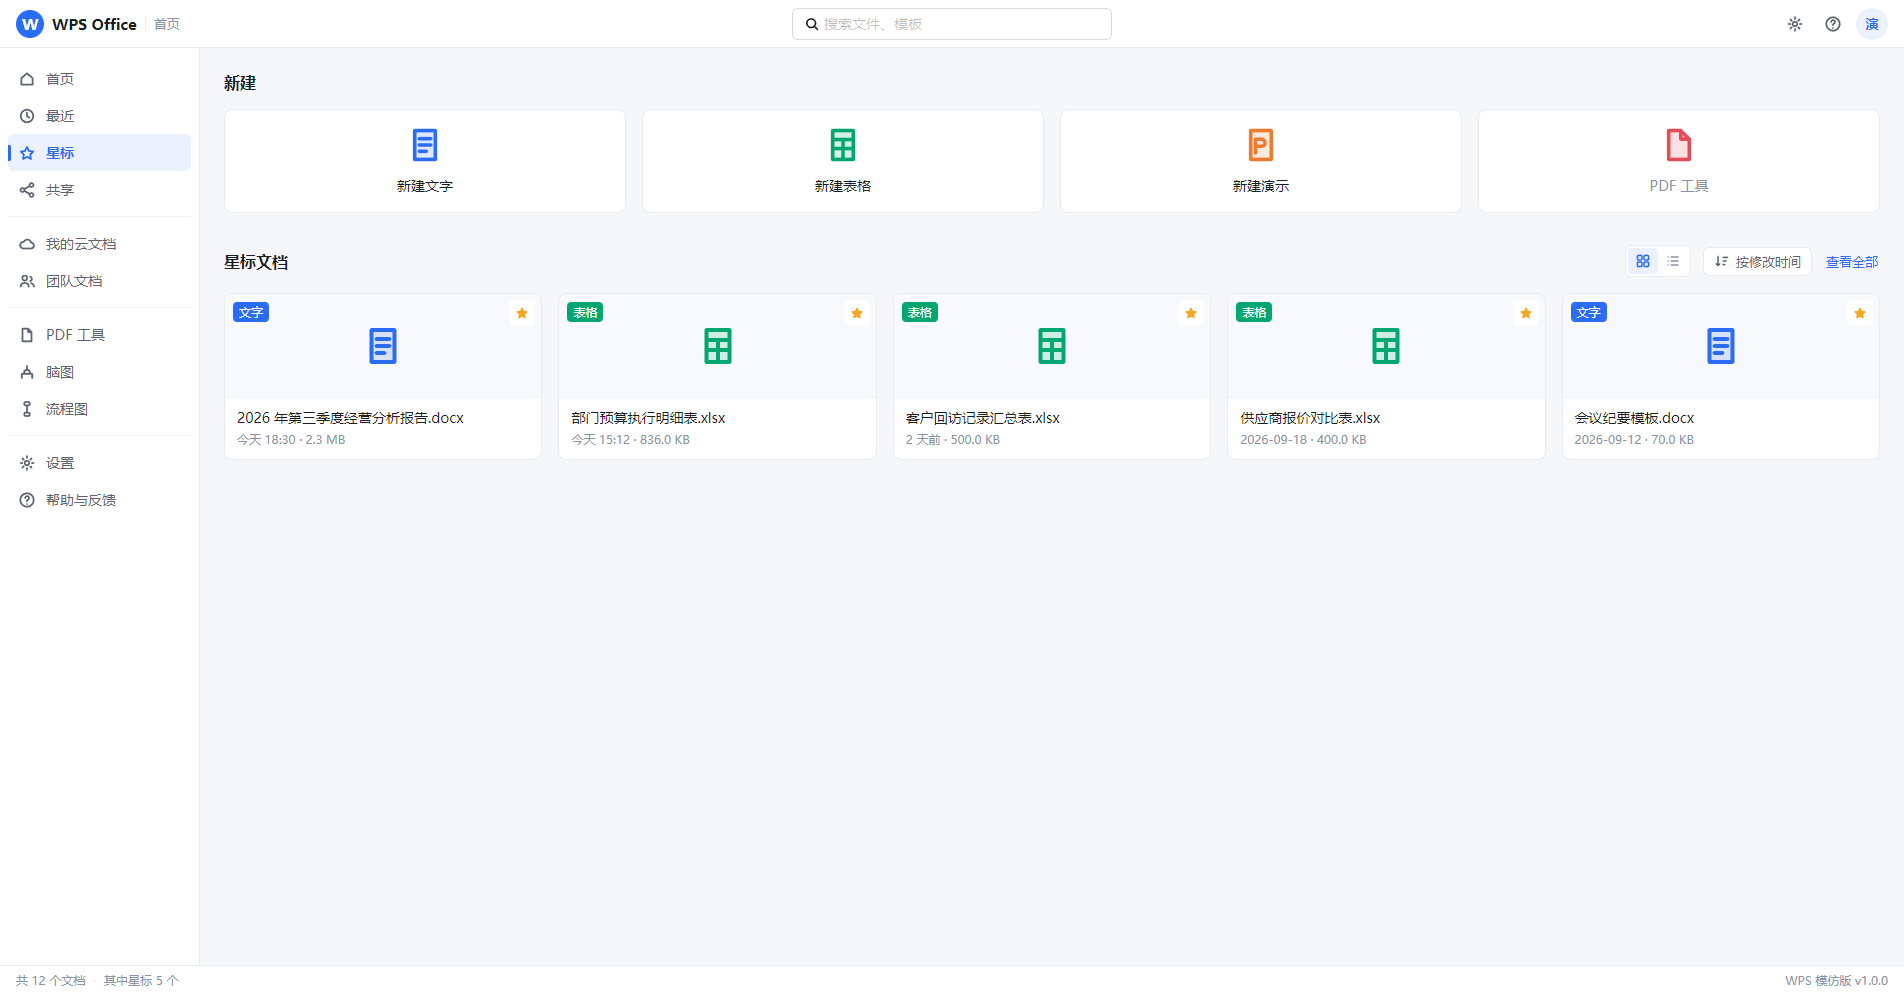
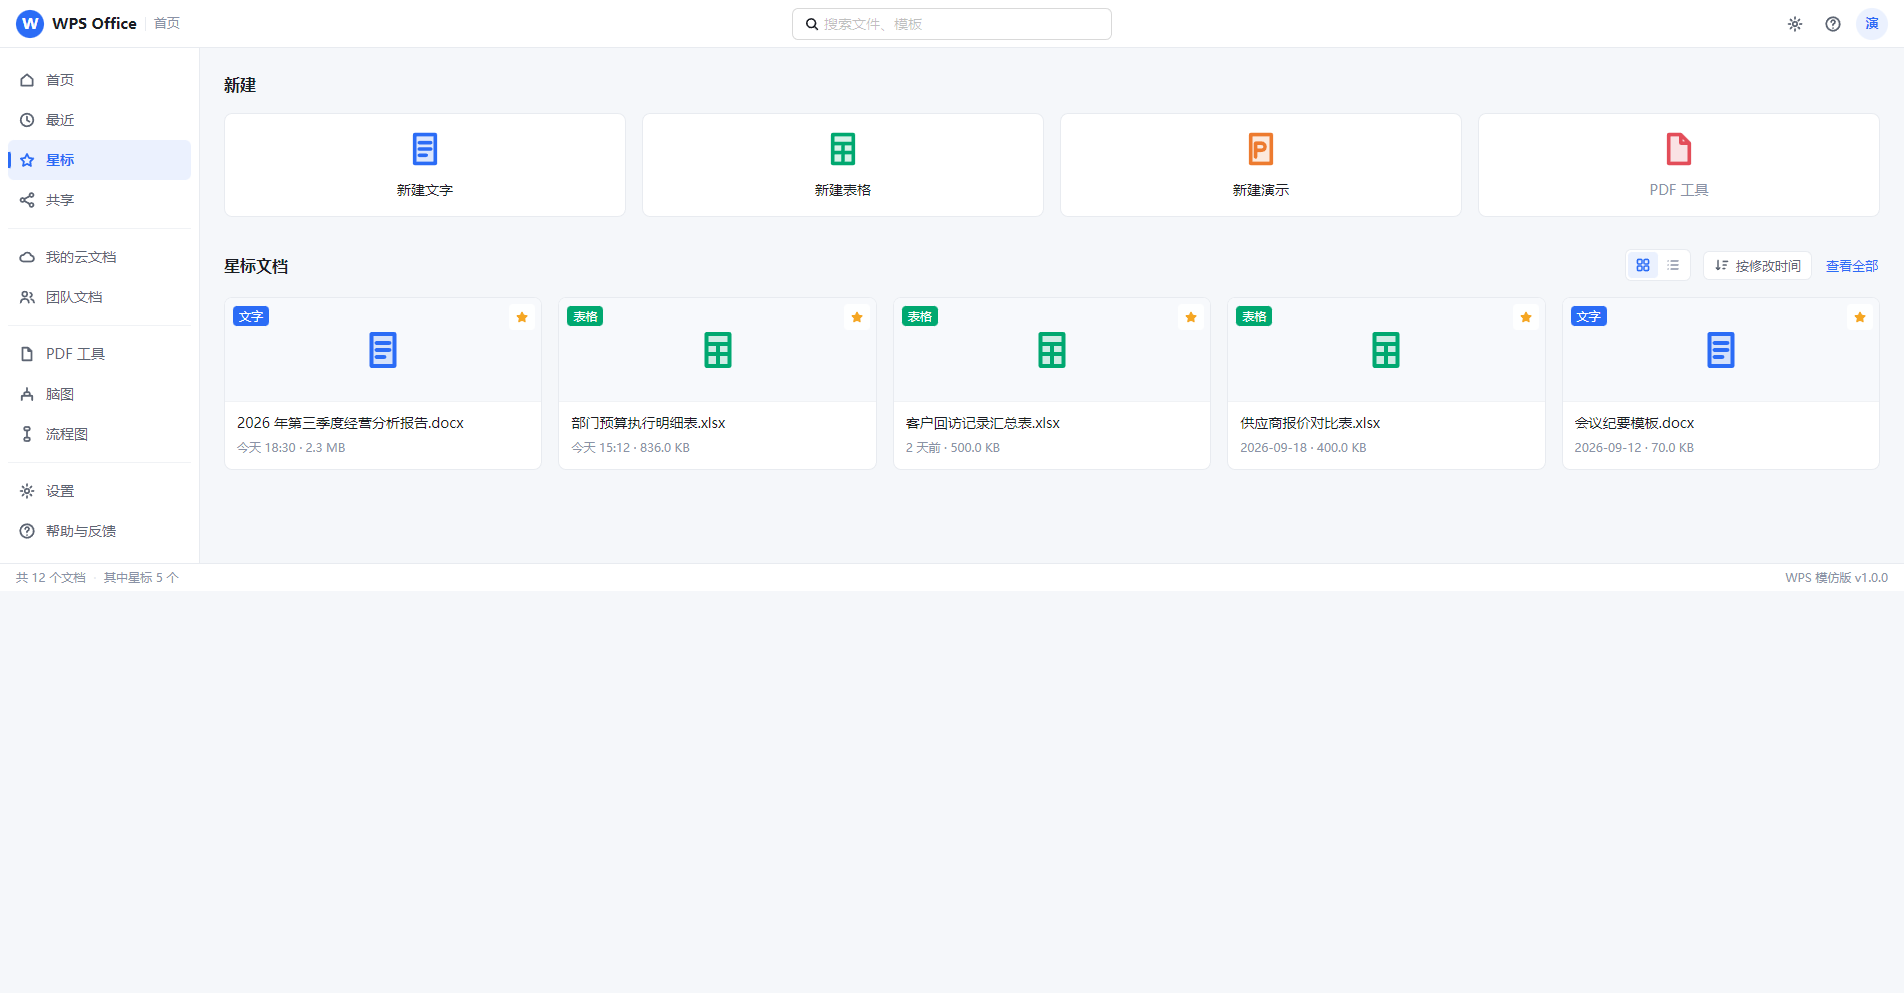
docs: 补充代码评审修复记录并重采界面截图

diff --git a/功能修改说明.md b/功能修改说明.md
@@ -251,7 +251,58 @@ e1441cb feat: 新增异常兜底与空状态组件
 
 本工程此前不是 Git 仓库，本次完成初始化并逐任务提交。
 
-## 七、遗留事项
+## 七、代码评审与修复
+
+首页交付后执行了一次独立只读代码评审（范围 `49611f0..HEAD`）。评审提出 3 项必须修复与若干建议项，
+逐条对照源码核实后确认全部成立，已全部修复。
+
+### 必须修复项
+
+| 序号 | 问题 | 根因 | 修复 |
+| --- | --- | --- | --- |
+| 1 | 编辑器顶栏文档名张冠李戴 | 顶栏取「该类型第一篇文档」的名称，与实际打开的文档无关；实测点「新建表格」却显示他人文件名 | 改为按 `activeDocId` 查找；新建时清空选中标识，未打开文档时展示「未命名表格.xlsx」等默认名 |
+| 2 | 未来时间被渲染为「今天」 | `formatTime` 以 `相差天数 <= 0` 判定今天，未来日期落入同一分支，会以错误时间掩盖真实时间 | 改为严格等于 0 判定今天；未来日期与超过三天一律输出具体日期，并补测试 |
+| 3 | 交付文档与事实不符 | 声称 9 项交互全部核对，但空状态与选中态既无截图也无 App 级测试；首页截图仍带已移除的英文菜单栏 | 补空状态与选中态的 App 级测试，重采全部截图，修订文档表述 |
+
+### 建议项
+
+| 问题 | 处理 |
+| --- | --- |
+| 列表表头复用行内类名，导致「名称」偏深、「星标」呈橙色 | 表头改用独立类名 `wps-doc-list__col` |
+| antd 静态 `message` 不消费 ConfigProvider 上下文 | 改用 `App.useApp()`，提示沿用中文语言包与主题 |
+| 网格卡片缺少规格要求的悬停三点菜单 | 补齐操作菜单：打开、重命名、取消星标、删除；新增重命名与删除能力及中文确认弹窗 |
+| 网格列数按视口宽度而非内容区宽度计算 | 改用 CSS 容器查询，列数依据主内容区实际宽度，侧栏与内边距被正确扣除 |
+| 文档类型文案、图标与颜色在卡片和列表行中重复定义 | 提取到 `docMeta.ts` 统一维护 |
+| `store` 与 `routes` 之间存在循环依赖，且 `store` 注释与自身导入自相矛盾 | 拆出不含页面依赖的 `navConfig.ts`，状态层只依赖该文件，循环消除 |
+| `moduleToDocType` 从未被调用 | 随重构删除 |
+| 部分测试断言过宽或自证 | 星标数量与筛选结果改为断言具体值；图标测试改为断言渲染结果而非断言常量表；新增空状态、选中态、共享筛选、排序、查看全部、重命名、删除与异常恢复用例 |
+| 全仓缺少类型校验，构建只转译不检查类型 | 新增 `tsconfig.json`、`typescript` 依赖与 `typecheck` 脚本 |
+| `ErrorBoundary` 仅覆盖主内容区，顶栏或侧栏异常仍会整窗白屏 | 改为应用级与页面级双层兜底 |
+
+### 修复后验证
+
+```
+$ npm run test:run
+ Test Files  16 passed (16)
+      Tests  104 passed (104)
+
+$ npm run typecheck
+（无输出，退出码 0）
+
+$ npm run build
+✓ 1488 modules transformed.
+../dist/assets/index-4e5ab4ac.css   10.12 kB │ gzip:   2.16 kB
+../dist/assets/index-879e5636.js   609.81 kB │ gzip: 195.64 kB
+✓ built in 4.71s
+```
+
+测试由 86 项增至 104 项。重采后的界面截图确认：英文菜单栏已移除、网格卡片悬停出现操作按钮、
+列表表头配色正确、新建文档时顶栏显示「未命名表格.xlsx」而不再是他人文件名。
+
+类型校验亦暴露出 4 处此前未被发现的问题并已修复：三个测试文件存在多余的 `React` 导入，
+`main.tsx` 缺少 CSS 模块类型声明（已补 `vite-env.d.ts`）。
+
+## 八、遗留事项
 
 1. `main/ipcHandle.js` 未导入 `ipcMain` 却直接调用，且首行 `require('./preload')`
    会在主进程触发 `contextBridge` 未定义异常。该文件当前未被引用，待确认后删除。

diff --git a/README.md b/README.md
@@ -68,7 +68,13 @@ npm test             # 监听模式
 npm run test:run -- recentDocs   # 仅运行名称匹配的测试文件
 ```
 
-当前共 16 个测试文件、86 项测试，全部通过。
+当前共 16 个测试文件、104 项测试，全部通过。
+
+类型校验与构建分离执行，Vite 构建只做转译、不做类型检查：
+
+```powershell
+npm run typecheck    # tsc --noEmit
+```
 
 ## 构建
 
@@ -93,8 +99,11 @@ wps-office/
 │       ├── main.tsx            React 入口，挂载根节点
 │       ├── App.tsx             应用外壳：视图分发与整体装配
 │       ├── styles.css          设计令牌与全部组件样式
-│       ├── routes.tsx          导航分组、模块注册表、新建入口映射
+│       ├── navConfig.ts        导航分组、新建入口与文档类型映射（不依赖页面）
+│       ├── routes.tsx          模块注册表：把导航数据与页面组件装配到一起
+│       ├── docMeta.ts          文档类型的文案、图标与配色元数据
 │       ├── store.ts            应用状态 Context 与 useAppStore
+│       ├── vite-env.d.ts       Vite 客户端类型声明
 │       ├── components/         界面组件
 │       │   ├── Icon.tsx        内联 SVG 图标集
 │       │   ├── TitleBar.tsx    顶栏
@@ -122,6 +131,7 @@ wps-office/
 │   ├── superpowers/plans/      实现计划
 │   └── screenshots/            运行界面验证截图
 ├── vite.config.js              Vite 与 Vitest 配置
+├── tsconfig.json               TypeScript 配置，仅用于类型校验，不参与构建
 └── package.json
 ```
 
@@ -152,10 +162,11 @@ wps-office/
 3. 主进程窗口配置中 `webPreferences` 同时启用 `nodeIntegration` 并关闭
    `contextIsolation`，存在安全风险；正式产品应改为通过 `preload` 暴露受控接口。
    当前 `main/preload.js` 使用了 `contextBridge`，在上述配置下不会生效。
-4. 文档、表格、演示三个模块均为占位页，尚未实现真实编辑能力。
-5. 生产构建主包约 557 kB，超过 Vite 默认的 500 kB 提示阈值，
+4. 最近文档使用工程内 12 条静态示例数据，尚未接入真实文件系统。
+5. 文档、表格、演示三个模块均为占位页，尚未实现真实编辑能力。
+6. 生产构建主包约 610 kB，超过 Vite 默认的 500 kB 提示阈值，
    可按需引入组件或配置分包优化。
-6. 编辑器视图下左侧导航与占位页各有一个「返回首页」入口，
+7. 编辑器视图下左侧导航与占位页各有一个「返回首页」入口，
    功能不冲突但存在冗余，真实编辑器落地后应只保留一处。
 
 ## 相关文档
